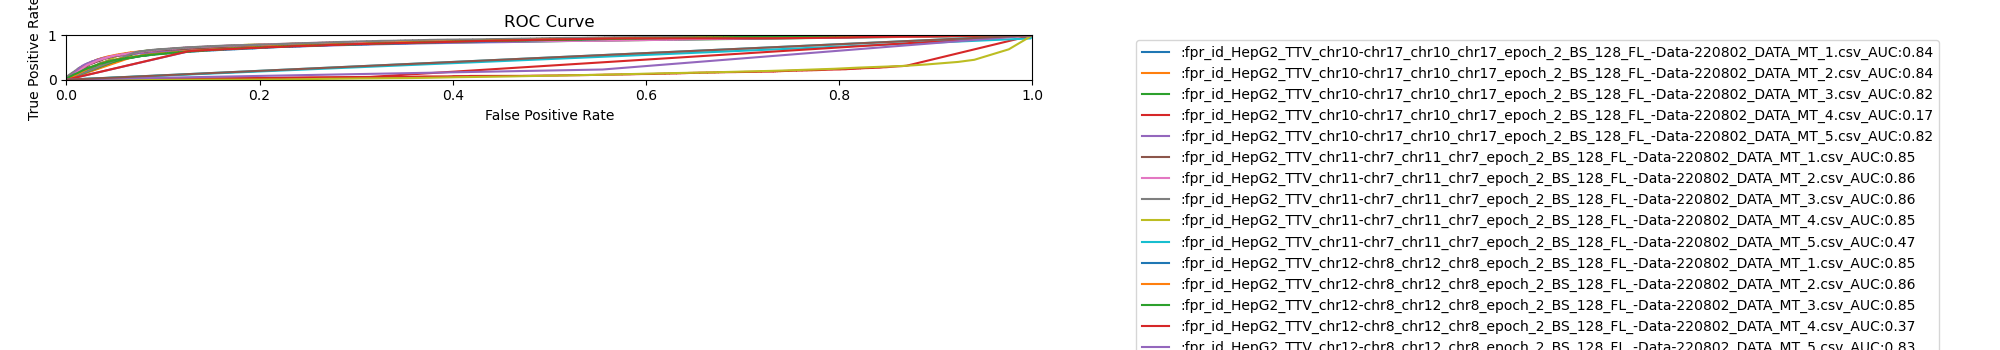
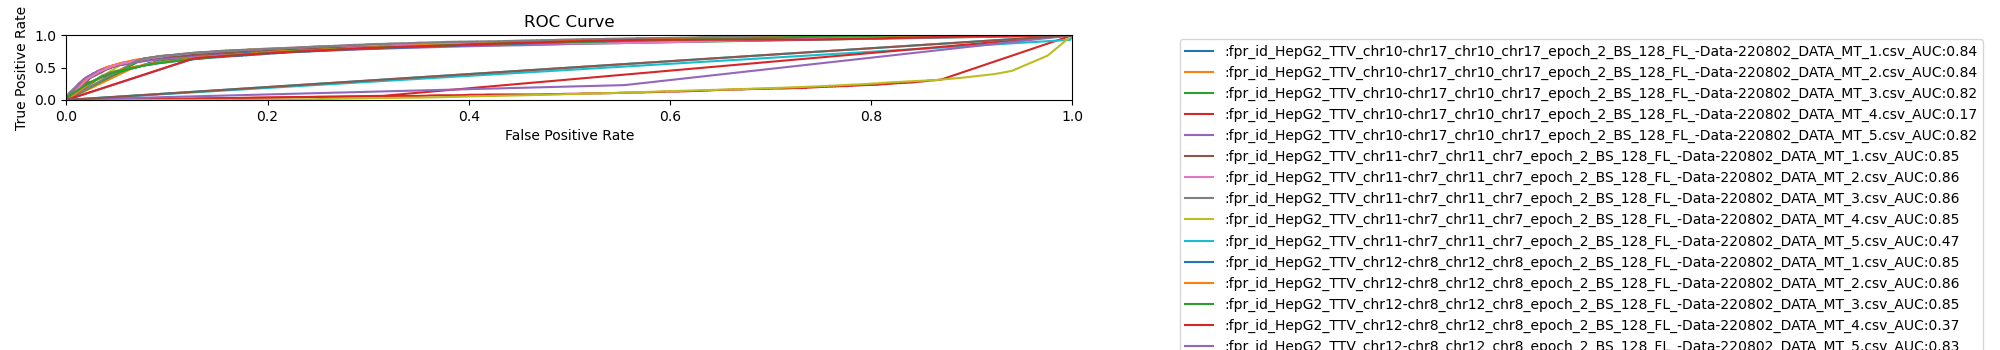
updated visualizing for pcr and auc curves

diff --git a/Chrom_Proj/visualizer.py b/Chrom_Proj/visualizer.py
@@ -45,8 +45,10 @@ def plotAll(location, name):
     plt.legend()
     plt.xlim(0,1)
     plt.ylim(0,1)
-    
+    index = 0
+ 
     for pre,rec in zip(data["pre"], data["rec"]):
+    
         print("processing: {}".format(pre[0]))
         print("processing: {}".format(rec[0]))
         
@@ -62,12 +64,17 @@ def plotAll(location, name):
                 recConvert.append(float(i))
             except:
                 continue
-        plt.plot(preConvert, recConvert, label="{}_AUC:{}".format(pre[0][pre[0].rindex("/")+1:], round(m.auc(sorted(preConvert), recConvert),2) ))
+
+        plt.plot(preConvert, recConvert, label="Model {}_AUC:{}".format(pre[0].split("_")[-1:][0], round(m.auc(sorted(preConvert), recConvert),2) ))
+        index+=1
+        if index == 5:
+            index = 0
+            plt.plot([0,1], [0,1])
+            plt.legend(bbox_to_anchor=(1.1, 1.05))
+            plt.savefig("output/dataVis/prc_{}_{}.png".format(name, pre[0].split("_")[4]))
+            plt.clf()
         print("==================")
-    plt.plot([0,1], [0,1])
-    plt.legend(bbox_to_anchor=(1.1, 1.05))
-    plt.savefig("output/dataVis/prc_{}_FULL.png".format(name))
-    plt.clf()
+    
     #==============================
     plt.xlabel('False Positive Rate')
     plt.ylabel('True Positive Rate')
@@ -75,6 +82,7 @@ def plotAll(location, name):
     plt.legend()
     plt.xlim(0,1)
     plt.ylim(0,1)
+    index = 0
     for pre,rec in zip(data["fpr"], data["tpr"]):
         print("processing: {}".format(pre[0]))
         print("processing: {}".format(rec[0]))
@@ -91,10 +99,14 @@ def plotAll(location, name):
                 tprConvert.append(float(i))
             except:
                 continue
-        plt.plot(fprConvert, tprConvert, label=":{}_AUC:{}".format(pre[0][pre[0].rindex("/")+1:], round(m.auc(sorted(fprConvert), tprConvert),2) ))
-        print("==================")
-    plt.plot([0,1], [0,1])
-    plt.legend(bbox_to_anchor=(1.1, 1.05))
-    plt.savefig("output/dataVis/roc_{}_FULL.png".format(name))
-    plt.clf()
+        plt.plot(fprConvert, tprConvert, label="Model {}_AUC:{}".format(pre[0].split("_")[-1][0], round(m.auc(sorted(fprConvert), tprConvert),2) ))
+        index+=1
+        if index==5:
+            plt.plot([0,1], [0,1])
+            plt.legend(bbox_to_anchor=(1.1, 1.05))
+            plt.savefig("output/dataVis/roc_{}_{}.png".format(name,pre[0].split("_")[4]))
+            plt.clf()
+            index = 0
 
+        print("==================")
+    

diff --git a/Chrom_Proj/model.py b/Chrom_Proj/model.py
@@ -157,9 +157,9 @@ class Chromatin_Network4(nn.Module):
 
 
 # CNN -> LSTM
-class Chromatin_Network4(nn.Module):
+class Chromatin_Network5(nn.Module):
     def __init__(self, name, hidden_size=1, num_layers=3):
-        super(Chromatin_Network4, self).__init__()
+        super(Chromatin_Network5, self).__init__()
         self.name = name
         self.num_layers = num_layers
         self.hidden_size = hidden_size
@@ -170,13 +170,17 @@ class Chromatin_Network4(nn.Module):
         self.layer_3 = nn.Conv1d(5, 10, 100)
         
 
-        self.lstm = nn.LSTM(input_size=100, hidden_size=1,
+        self.lstm = nn.LSTM(input_size=3430, hidden_size=1,
                           num_layers=num_layers, batch_first=True) #lstm
 
 
         self.h_0 = None
         self.c_0 = None
         self.hidden = None
+
+        self.relu1 = nn.ReLU()
+        self.relu2 = nn.ReLU()
+        self.relu3 = nn.ReLU()
 
     def forward(self, x):
         x = x.reshape(-1, 1, x.shape[1])
@@ -185,7 +189,7 @@ class Chromatin_Network4(nn.Module):
         x = self.relu3(self.layer_3(x))
 
         x = torch.flatten(x, start_dim=1)
-        pdb.set_trace()
+        
 
         if self.h_0 == None:    
             h_0 = Variable(torch.zeros(self.num_layers, 1)).to(x.device) #hidden state
@@ -193,7 +197,7 @@ class Chromatin_Network4(nn.Module):
             self.hidden = (h_0, c_0)
         
 
-        output, self.hidden = self.lstm(out, self.hidden) #lstm with input, hidden, and internal state
+        output, self.hidden = self.lstm(x, self.hidden) #lstm with input, hidden, and internal state
 
         out = torch.sigmoid(output)
 

diff --git a/runModels.py b/runModels.py
@@ -16,7 +16,7 @@ def main():
     trainLabels = ["chr10-chr17", "chr11-chr7", "chr12-chr8",  "chr13-chr9", "chr15-chr16" ]
     testLabels = ["chr10", "chr11", "chr12", "chr13", "chr14", "chr15", "chr16", "chr17", "chr7", "chr8", "chr9"]
     validLabels = ["chr10", "chr11", "chr12", "chr13", "chr14", "chr15", "chr16", "chr17", "chr7", "chr8", "chr9"]
-    models = [4]
+    models = [1,2,3,4,5]
 
     for id in ids:
         for trainLabel in trainLabels:

diff --git a/Chrom_Proj/runner.py b/Chrom_Proj/runner.py
@@ -75,6 +75,8 @@ def runner(chromtypes,
         model = Chromatin_Network3(name)   
     if modelType == 4:
         model = Chromatin_Network4(name)   
+    if modelType == 5:
+        model = Chromatin_Network5(name)   
 
     print(model) 
 
